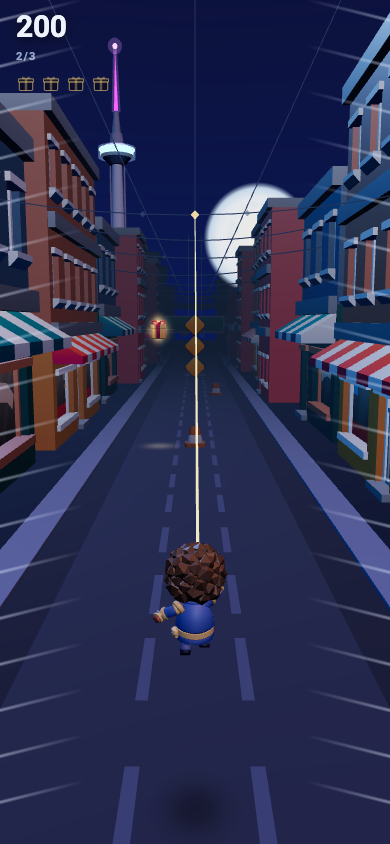
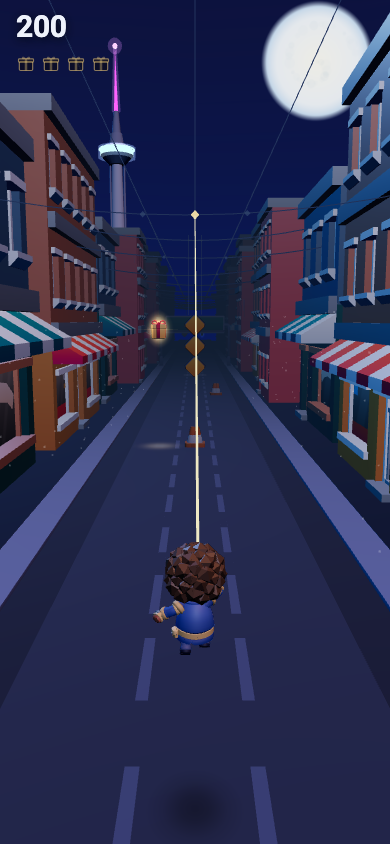
tune(level2): the moon up level with the CN Tower's top and off to the right; readme screenshot retaken
The moon's centre sat at 32 against a tower whose top is at 76, so the
skyline read as a moon behind a mast, and at x 16 it crowded the tower.
It is at 74 and x 30 now, in the upper right of the frame. The readme's
level 2 screenshot is retaken from the same capture tool, without the
old edge overlay.

diff --git a/src/render/look.ts b/src/render/look.ts
@@ -67,7 +67,9 @@ export const MOON = {
    * which should win.
    */
   route: { size: 24, x: 22, y: 40, z: -140 },
-  skyline: { size: 28, x: 16, y: 32, z: -155 },
+  /* Level with the CN Tower's top (base y -2, 78 tall): a moon at 32 sat
+     well down the tower, and the skyline read as a moon behind a mast. */
+  skyline: { size: 28, x: 30, y: 74, z: -155 },
   /** Right of the tower, matching levels 1 and 2, and clear of the arch. */
   boss: { size: 4.6, x: 11.2, y: 12.4, z: -24 },
 } as const;
